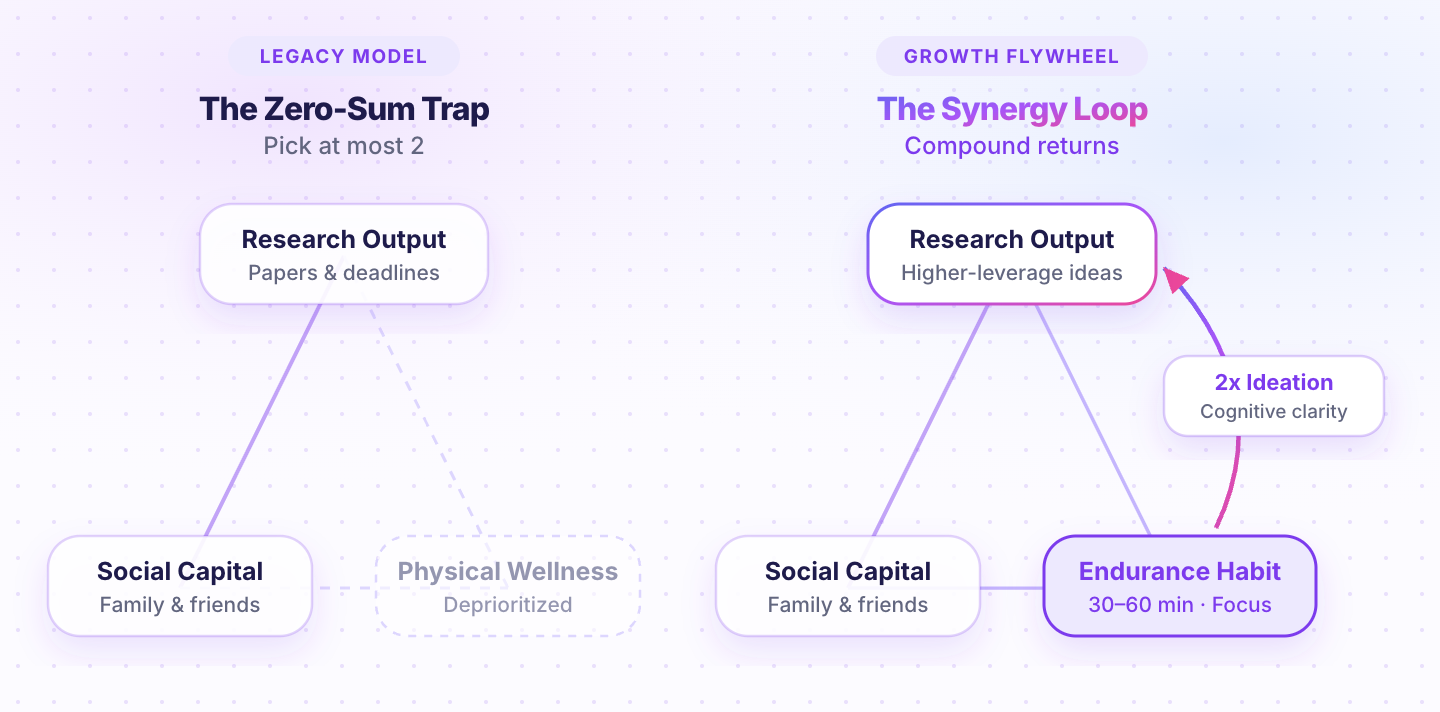
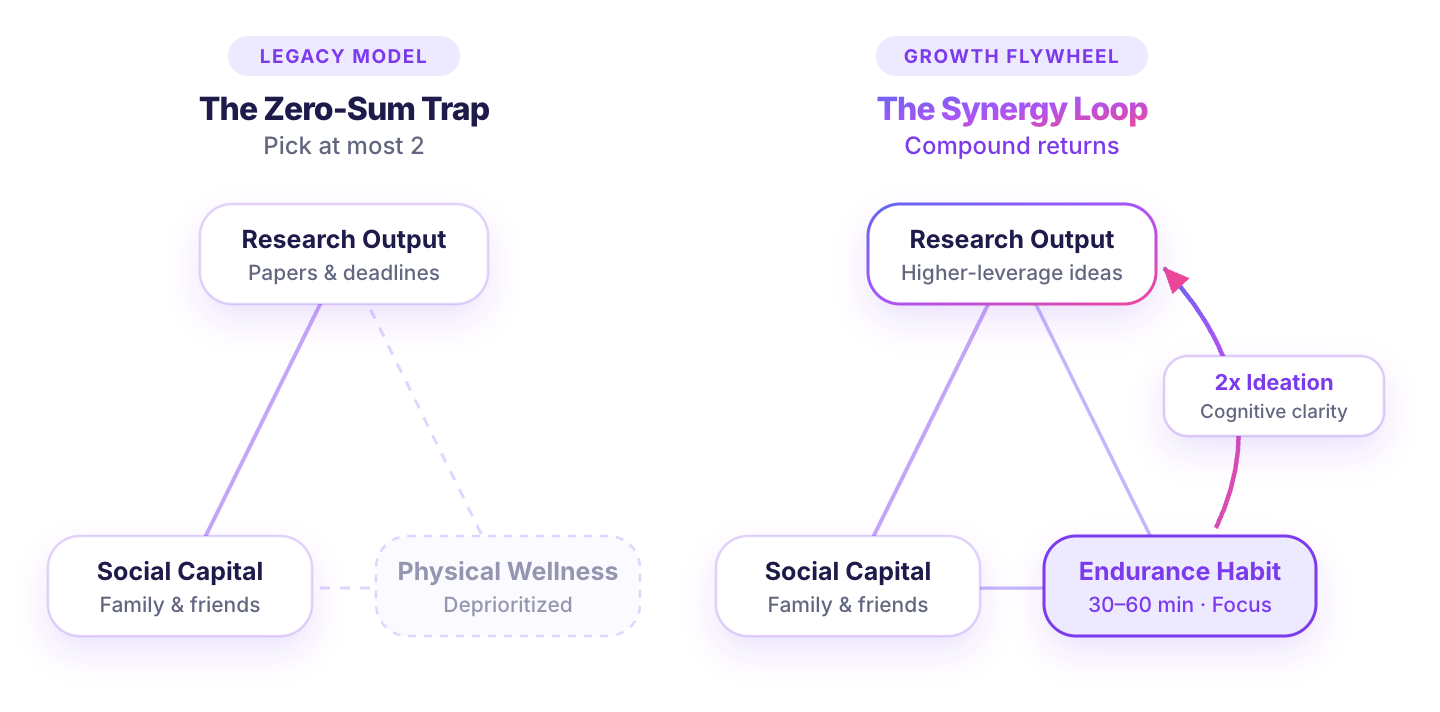
Fit the PhD triangle's slop figures onto the page's own cards
The medium and max variants now have transparent backgrounds, and
slop.css gives them the surface each level uses for its cards: white at
level 2, glass at 3, the neon outline at 4. The max variant is redrawn
light to match, its second "SOTA" is now "Agentic", and its glows are no
longer clipped. Both variants share the clean figure's alt text, so
screen readers hear the same figure at every level.

AGENTS.md and the README document figure variants.

Changed region(s): [[0.1562, 0.0927, 0.25, 0.1854], [0.8125, 0.1545, 0.875, 0.2163]]

diff --git a/src/styles/slop.css b/src/styles/slop.css
@@ -78,6 +78,7 @@
     & .prose a, & .about-copy > p a { font-weight: 600; text-decoration: underline 2px rgb(168 85 247 / .35); text-underline-offset: 4px; }
     & .prose .slop-figure[data-slop-grade='clean'] { display: none; }
     & .prose .slop-figure[data-slop-grade='medium'] { display: block; }
+    & .prose .slop-figure img { border: 1px solid rgb(124 58 237 / .12); background: #fff; }
     & .article-tags { gap: 8px; margin-top: 52px; }
     & .article-tags > span { padding: 6px 13px; border-radius: 999px; background: var(--accent-soft); font: 650 12px var(--sans); color: var(--accent); }
     @supports (animation-timeline: scroll()) {
@@ -188,6 +189,7 @@
     & .prose img { margin: 36px auto 14px; border-radius: 20px; box-shadow: 0 24px 50px -24px rgb(30 27 75 / .45), 0 0 0 1px rgb(124 58 237 / .12); }
     & .prose pre { margin: 32px 0; padding: 22px 24px; font: 13.5px/1.7 var(--mono); }
     & .prose .note { margin: 36px 0; padding: 26px 28px; border: 1px solid var(--glass-line); border-radius: 24px; background: var(--glass); box-shadow: var(--card-shadow); font-size: 16px; }
+    & .prose .slop-figure img { border-color: var(--glass-line); border-radius: 24px; background: var(--glass); box-shadow: var(--card-shadow); }
     & .prose .note > p:first-child strong { font-size: 19px; letter-spacing: -.02em; }
     & .next-article { margin-top: 48px; padding: 30px 72px 30px 30px; border: 1px solid var(--glass-line); border-radius: 24px; background: var(--glass); box-shadow: var(--card-shadow); transition: transform .3s; }
     & .next-article:hover { transform: translateY(-4px); }
@@ -369,6 +371,7 @@
     & .prose p:has(> img) + p:has(> em:only-child)::before { content: '📸 ' / ''; }
     & .prose .slop-figure[data-slop-grade='medium'] { display: none; }
     & .prose .slop-figure[data-slop-grade='max'] { display: block; }
+    & .prose .slop-figure img { border: 1.5px solid transparent; background: linear-gradient(rgb(255 255 255 / .9), rgb(255 255 255 / .9)) padding-box, linear-gradient(135deg, rgb(124 58 237 / .5), rgb(236 72 153 / .35), rgb(34 211 238 / .45)) border-box; box-shadow: 0 30px 60px -24px rgb(76 29 149 / .45), var(--glow); }
     & .article-toc .micro-label::before { content: '📑 ' / ''; }
     & .next-article .micro-label::after { content: ' 👉' / ''; }
     & .project-detail .eyebrow::before { content: '🔥' / ''; }

diff --git a/README.md b/README.md
@@ -43,7 +43,7 @@ The level is saved in the visitor's browser and applies to every page; `?slop=<0
 
 - `src/components/SlopSlider.astro` is the slider. Level names come from `slopLevels` in `src/lib/slop.ts`; screen readers announce them as the slider's value, while the slider itself shows only *sleek* and *slop*.
 - `src/styles/slop.css` holds all five levels. The head script in `Base.astro` writes every level up to the chosen one to `html[data-slop]` (`"1 2 3"` at level 3), so `[data-slop~='3']` means "level 3 or higher". The file sits in its own `overlays` cascade layer after `responsive`, so it overrides Quiet at every screen width and handles its own breakpoints.
-- Article text and code are unchanged at every level (posts may provide slop-level variants for a figure via `.slop-figure`). The TL;DR box shows each post's `description`, and the parody copy and emoji are added with CSS and hidden from screen readers.
+- Article text and code are unchanged at every level. A figure can have slop variants beside the original, each wrapped in `.slop-figure`: the original shows at levels 0–1, `medium` at 2–3 and `max` at 4–5. The variants have transparent backgrounds, so the level's card style supplies their surface, and they share the original's alt text. The TL;DR box shows each post's `description`, and the parody copy and emoji are added with CSS and hidden from screen readers.
 - Several of the level 1–5 tropes came from asking Codex for recognisable AI-generated-website patterns.
 
 ## Writing and content
@@ -79,7 +79,7 @@ The article starts here.
 
 A post whose figures come from data can keep the scripts and data in a `source/` folder next to `images/`, with a short README on how to rebuild them; the site builds only `index.md` and the images it shows. The sliding-window post does this.
 
-The folder name becomes the URL: `/writing/my-new-post/`. Available categories are `Research`, `Engineering`, `Learning`, and `Reflections`. Set `draft: true` to exclude a post from the site, archive, and feed. `original_url` is optional and records where an imported post was first published; the site doesn't display it. Dates and summaries drive the homepage, archive, and RSS automatically. Article content is the same at every AI slop level.
+The folder name becomes the URL: `/writing/my-new-post/`. Available categories are `Research`, `Engineering`, `Learning`, and `Reflections`. Set `draft: true` to exclude a post from the site, archive, and feed. `original_url` is optional and records where an imported post was first published; the site doesn't display it. Dates and summaries drive the homepage, archive, and RSS automatically. Article text and code are the same at every AI slop level; figures can have slop variants (see "AI slop slider").
 
 ### Diagrams
 
@@ -92,7 +92,7 @@ dir=content/introducing-pytora-a-minimal-pytorch-implementation-of-lora/images
   --screenshot=$dir/lora.png "file://$PWD/$dir/lora.svg"
 ```
 
-`--window-size` is the SVG's `width` and `height`.
+`--window-size` is the SVG's `width` and `height`. A figure's slop variants are drawn without a background; add `--default-background-color=00000000` to keep the PNG transparent.
 
 ### Link previews
 

diff --git a/AGENTS.md b/AGENTS.md
@@ -9,7 +9,7 @@ Guidance for coding agents working on iondy.com. The README describes the projec
 - Commands: `npm run dev` (http://127.0.0.1:4321), `npm run build`, `npm test` (importer tests).
 - Deploy: every push to `main` runs `.github/workflows/deploy.yml` and publishes to GitHub Pages. While the `COMING_SOON` repository variable is `true`, the live site shows `coming-soon/index.html` instead; local dev always shows the real site.
 - Quiet is deliberately minimal: no filler slogans, decorative counters, badges, or heavy cards. AI slop (below) is the only exception.
-- Never change the wording of articles, their figures, or their code.
+- Never change the wording of articles, their figures, or their code. Slop variants of a figure sit beside the original and leave it as it is (see "Figure variants" below).
 - Diagrams redrawn for the site keep their SVG source next to the PNG the post shows; the README's "Diagrams" section has the render command. The link-preview image `public/og-image.png` is drawn the same way, in `src/og-image.svg` (README, "Link previews").
 - Figures made from data keep their scripts and data in the post's `source/` folder, which the site doesn't publish. Its README says how to rebuild them; regenerate figures with those scripts instead of editing the PNGs. The repo is public, so `source/` holds only what rebuilds the post: no drafts, internal reports, run IDs or cluster details.
 
@@ -51,6 +51,7 @@ Per-item rules to update when content changes:
 - **Header width**: between 761 and 1050px the header is one row with little room to spare at levels 4 and 5. Level 4 shortens the slider there and level 5 shows `iondy.ai` only above 1050px; anything new in the header needs the same care.
 - **Formulas**: `$$ … $$` in a post is typeset with KaTeX by the Sätteri plugin in `astro.config.mjs`; a single `$` stays text. Formulas look the same at every level; wide ones scroll sideways on phones.
 - **Info boxes**: posts mark side notes with `<aside class="note">`, with blank lines around the Markdown inside (README, "Writing and content"). Quiet styles it like a code block; levels 1, 3 and 4 restyle it, and level 4 adds a "Deep dive" label.
+- **Figure variants**: a post can give a figure slop variants by wrapping each copy in `<div class="slop-figure" data-slop-grade="…">`, with blank lines around the image. `clean` (the original) shows at levels 0–1, `medium` at 2–3 and `max` at 4–5. Draw the variants with a transparent background so the page's own surface shows behind them: a white card at level 2, a glass card at 3, the neon-outlined card at 4 (rules on `.prose .slop-figure img` in `slop.css`). Keep their SVG sources beside the PNGs, keep the parody inside the image, and give every variant the clean figure's alt text so screen readers hear the same figure at every level.
 
 ### Pitfalls (each one has bitten this codebase)
 

diff --git a/content/why-running-mattered-for-my-phd/index.md b/content/why-running-mattered-for-my-phd/index.md
@@ -31,13 +31,13 @@ If you are incredibly disciplined, you can at most do two and a half. Looking ba
 
 <div class="slop-figure" data-slop-grade="medium">
 
-![Startup-styled side-by-side triangles comparing "The Zero-Sum Trap" under Legacy Model with "The Synergy Loop" under Growth Flywheel, where Endurance Habit feeds back into Research Output as "2x Ideation · Cognitive clarity".](images/phd-triangle-slop-medium.png)
+![Two side-by-side triangles comparing the three corners of PhD life: PhD progress, Relationships, and Sport. Left, the zero-sum view ("pick at most 2"): PhD progress and Relationships are connected while Sport is dashed and fades out as "feels like lost time". Right, in practice ("feedback loop"): Running (30–60 min · health) connects back to PhD progress with a curved arrow labeled "clears the head + research ideas".](images/phd-triangle-slop-medium.png)
 
 </div>
 
 <div class="slop-figure" data-slop-grade="max">
 
-![Dark neon AI-dashboard window titled "The PhD Flywheel, Reimagined." with 99.8% confidence, comparing "Legacy · 0x ROI" with "Running Stack · SOTA" where Running.ai drives "+340% Ideation · 0 Hallucinations" and is endorsed by Reviewer #2.](images/phd-triangle-slop-max.png)
+![Two side-by-side triangles comparing the three corners of PhD life: PhD progress, Relationships, and Sport. Left, the zero-sum view ("pick at most 2"): PhD progress and Relationships are connected while Sport is dashed and fades out as "feels like lost time". Right, in practice ("feedback loop"): Running (30–60 min · health) connects back to PhD progress with a curved arrow labeled "clears the head + research ideas".](images/phd-triangle-slop-max.png)
 
 </div>
 
